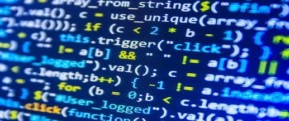
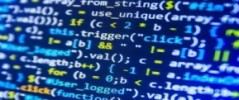
Adjusted the size and width of the pictures.

diff --git a/Assets/css/style.css b/Assets/css/style.css
@@ -118,7 +118,7 @@ p {
     font-family: Arial, Helvetica, sans-serif;
     font-weight: bolder;
     height: 800px;
-    width: 100%;
+    width: 30%;
 } 
 
 /* The basic flex properties for the main section of the webpage */
@@ -133,9 +133,8 @@ p {
     justify-content: flex-end;
     align-items: flex-end;
     flex-direction:column;
-    flex-basis: 100%;
-    margin: 20px;
-    height: 80%;
+    margin: 60px;
+    height: 100%;
     width:80%;
     background-image: url(../images/Horiseon.jpg);  
 }
